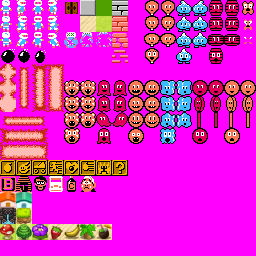
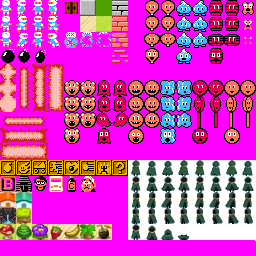
commit 10h16 28/11/2021

Changed region(s): [[0.5, 0.625, 1.0, 0.9375]]

diff --git a/src/entities/Bomb.java b/src/entities/Bomb.java
@@ -1,6 +1,7 @@
 package entities;
 
 import common.common_view;
+import sfx.SoundEffect;
 
 public class Bomb extends Entity {
         public int frameBomb = 0;
@@ -14,6 +15,8 @@ public class Bomb extends Entity {
         public int frameExplosion = 0;
         public int intervalExplosion = 3;
         public int indexAnimExplosion = 0;
+
+        public SoundEffect sound_explosion = new SoundEffect("src/sfx/bomb_explosion.wav");
 
         public Bomb(int xUnit, int yUnit) {
                 super(xUnit, yUnit);
@@ -95,18 +98,18 @@ public class Bomb extends Entity {
                                 animBomb(common_view.bombs.get(i));
 
                                 if (common_view.bombs.get(i).exploded) {
-
+                                        common_view.bombs.get(i).sound_explosion.play_sound();
                                         common_view.scene[_y][_x] = 'f';
-                                        if (common_view.scene[_y + 1][_x] != 35) {
+                                        if (common_view.scene[_y + 1][_x] != '#') {
                                                 common_view.scene[_y + 1][_x] = 's';
                                         }
-                                        if (common_view.scene[_y][_x - 1] != 35) {
+                                        if (common_view.scene[_y][_x - 1] != '#') {
                                                 common_view.scene[_y][_x - 1] = 'a';
                                         }
-                                        if (common_view.scene[_y][_x + 1] != 35) {
+                                        if (common_view.scene[_y][_x + 1] != '#') {
                                                 common_view.scene[_y][_x + 1] = 'd';
                                         }
-                                        if (common_view.scene[_y - 1][_x] != 35) {
+                                        if (common_view.scene[_y - 1][_x] != '#') {
                                                 common_view.scene[_y - 1][_x] = 'w';
                                         }
                                         common_view.bombs.get(i).frameExplosion++;
@@ -117,51 +120,38 @@ public class Bomb extends Entity {
                                                         common_view.bombs.get(i).indexAnimExplosion = 0;
 
                                                         common_view.scene[_y][_x] = ' ';
-                                                        if (common_view.scene[_y + 1][_x] != 35) {
-                                                                int random = (int) (Math.random() * 100 + 1);
-                                                                if (random % 5 == 0) {
-                                                                        common_view.scene[_y + 1][_x] = '1';
-                                                                        Item item = new Item(0, 0);
-                                                                        common_view.items.add(item);
-                                                                } else {
-                                                                        common_view.scene[_y + 1][_x] = ' ';
-                                                                }
+                                                        if (common_view.has_item[_y + 1][_x] == 1) {
+                                                                Item item = new Item(0, 0);
+                                                                common_view.items.add(item);
+                                                                common_view.scene[_y + 1][_x] = '1';
+                                                        } else if (common_view.has_item[_y + 1][_x] == 0) {
+                                                                common_view.scene[_y + 1][_x] = ' ';
                                                         }
-                                                        if (common_view.scene[_y][_x - 1] != 35) {
-                                                                int random = (int) (Math.random() * 100 + 1);
-                                                                if (random % 3 == 0) {
-                                                                        common_view.scene[_y][_x - 1] = '1';
-                                                                        Item item = new Item(0, 0);
-                                                                        common_view.items.add(item);
-                                                                } else {
-                                                                        common_view.scene[_y][_x - 1] = ' ';
-                                                                }
+                                                        if (common_view.has_item[_y - 1][_x] == 1) {
+                                                                Item item = new Item(0, 0);
+                                                                common_view.items.add(item);
+                                                                common_view.scene[_y - 1][_x] = '1';
+                                                        } else if (common_view.has_item[_y - 1][_x] == 0) {
+                                                                common_view.scene[_y - 1][_x] = ' ';
                                                         }
-                                                        if (common_view.scene[_y - 1][_x] != 35) {
-                                                                int random = (int) (Math.random() * 100 + 1);
-                                                                if (random % 3 == 0) {
-                                                                        common_view.scene[_y - 1][_x] = '1';
-                                                                        Item item = new Item(0, 0);
-                                                                        common_view.items.add(item);
-                                                                } else {
-                                                                        common_view.scene[_y - 1][_x] = ' ';
-                                                                }
+                                                        if (common_view.has_item[_y][_x + 1] == 1) {
+                                                                Item item = new Item(0, 0);
+                                                                common_view.items.add(item);
+                                                                common_view.scene[_y][_x + 1] = '1';
+                                                        } else if (common_view.has_item[_y][_x + 1] == 0) {
+                                                                common_view.scene[_y][_x + 1] = ' ';
                                                         }
-                                                        if (common_view.scene[_y][_x + 1] != 35) {
-                                                                int random = (int) (Math.random() * 100 + 1);
-                                                                if (random % 3 == 0) {
-                                                                        common_view.scene[_y][_x + 1] = '1';
-                                                                        Item item = new Item(0, 0);
-                                                                        common_view.items.add(item);
-                                                                } else {
-                                                                        common_view.scene[_y][_x + 1] = ' ';
-                                                                }
+                                                        if (common_view.has_item[_y][_x - 1] == 1) {
+                                                                Item item = new Item(0, 0);
+                                                                common_view.items.add(item);
+                                                                common_view.scene[_y][_x - 1] = '1';
+                                                        } else if (common_view.has_item[_y][_x - 1] == 0) {
+                                                                common_view.scene[_y][_x - 1] = ' ';
                                                         }
 
                                                         nguoicobinokhong(_x, _y);
 
                                                         common_view.bombs.remove(i);
-
                                                 }
                                         }
                                 }

diff --git a/src/entities/Bomber.java b/src/entities/Bomber.java
@@ -177,6 +177,7 @@ package entities;
 
 import common.*;
 import graphics.Sprite;
+import sfx.SoundEffect;
 
 import javax.sound.sampled.AudioSystem;
 import javax.sound.sampled.Clip;
@@ -222,7 +223,7 @@ public class Bomber extends Entity {
             if (framePlayer > intervalPlayer) {
                 framePlayer = 0;
                 indexAnimPlayer++;
-                if (indexAnimPlayer > 2) {
+                if (indexAnimPlayer > 7) {
                     indexAnimPlayer = 0;
                 }
             }
@@ -242,6 +243,7 @@ public class Bomber extends Entity {
             common_view.sprite.player = common_view.sprite.playerAnimDown[0];
         }
     }
+
     public boolean isFreeR(int x, int y, char[][] scene) {
         boolean a = false;
         int size = common_view.TILESIZE * common_view.SCALE;
@@ -253,7 +255,10 @@ public class Bomber extends Entity {
             } else if (x % size == 0 && y % size == 0) {
                 int x1 = x / size;
                 int y1 = y / size;
-                if (scene[y1][x1 + 1] == ' ' || scene[y1][x1 + 1] == '9') {
+                if (scene[y1][x1 + 1] == ' ' || scene[y1][x1 + 1] == '9' || scene[y1][x1 + 1] == '1') {
+                    if (scene[y1][x1 + 1] == '1') {
+                        scene[y1][x1 + 1] = ' ';
+                    }
                     a = true;
                 } else {
                     a = false;
@@ -280,7 +285,10 @@ public class Bomber extends Entity {
             } else if (x % size == 0 && y % size == 0) {
                 int x1 = x / size;
                 int y1 = y / size;
-                if (scene[y1][x1-1]==32 || scene[y1][x1-1]==57) {
+                if (scene[y1][x1-1] == ' ' || scene[y1][x1-1] == '9' || scene[y1][x1-1] == '1') {
+                    if (scene[y1][x1-1] == '1') {
+                        scene[y1][x1-1] = ' ';
+                    }
                     a = true;
                 } else {
                     a = false;
@@ -307,7 +315,10 @@ public class Bomber extends Entity {
             } else if (x % size == 0 && y % size == 0) {
                 int x1 = x / size;
                 int y1 = y / size;
-                if (scene[y1-1][x1]==32 || scene[y1-1][x1]==57) {
+                if (scene[y1-1][x1] == ' ' || scene[y1-1][x1] == '9' || scene[y1-1][x1] == '1') {
+                    if (scene[y1-1][x1] == '1') {
+                        scene[y1-1][x1] = ' ';
+                    }
                     a = true;
                 } else {
                     a = false;
@@ -334,7 +345,10 @@ public class Bomber extends Entity {
             } else if (x % size == 0 && y % size == 0) {
                 int x1 = x / size;
                 int y1 = y / size;
-                if (scene[y1+1][x1]==32 || scene[y1+1][x1]==57) {
+                if (scene[y1+1][x1] == ' ' || scene[y1+1][x1] == '9' || scene[y1+1][x1] == '1') {
+                    if (scene[y1+1][x1] == '1') {
+                        scene[y1+1][x1] = ' ';
+                    }
                     a = true;
                 } else {
                     a = false;

diff --git a/src/graphics/Sprite.java b/src/graphics/Sprite.java
@@ -48,10 +48,10 @@ public class Sprite {
             common_view.view_game_over = ImageIO.read(getClass().getResource("/lose.png"));
             spriteSheet = ImageIO.read(getClass().getResource("/classic1.png"));
 
-            playerAnimUp = new BufferedImage[3];
-            playerAnimDown = new BufferedImage[3];
-            playerAnimRight = new BufferedImage[3];
-            playerAnimLeft = new BufferedImage[3];
+            playerAnimUp = new BufferedImage[8];
+            playerAnimDown = new BufferedImage[8];
+            playerAnimRight = new BufferedImage[8];
+            playerAnimLeft = new BufferedImage[8];
             bombAnim = new BufferedImage[3];
 
             fontExplosion = new BufferedImage[3];
@@ -67,12 +67,15 @@ public class Sprite {
                 item1[i + 3] = spriteSheet.getSubimage(10 * 16, i * 16, 16, 16);
             }
 
+            for (int i = 0; i < 8; i++) {
+                playerAnimLeft[i] = spriteSheet.getSubimage((i + 8) * 16, 13 * 16, 16, 16);
+                playerAnimRight[i] = spriteSheet.getSubimage((i + 8) * 16, 12 * 16, 16, 16);
+                playerAnimUp[i] = spriteSheet.getSubimage((i + 8) * 16, 10 * 16, 16, 16);
+                playerAnimDown[i] = spriteSheet.getSubimage((i + 8) * 16, 11 * 16, 16, 16);
+            }
+
 
             for (int i = 0; i < 3; i++) {
-                playerAnimLeft[i] = spriteSheet.getSubimage(3 * 16, i * 16, 16, 16);
-                playerAnimRight[i] = spriteSheet.getSubimage(1 * 16, i * 16, 16, 16);
-                playerAnimUp[i] = spriteSheet.getSubimage(0, i * 16, 16, 16);
-                playerAnimDown[i] = spriteSheet.getSubimage(2 * 16, i * 16, 16, 16);
                 bombAnim[i] = spriteSheet.getSubimage(i * 16, 3 * 16, 16, 16);
                 fontExplosion[i] = spriteSheet.getSubimage(0, (i + 4) * 16, 16, 16);
                 upExplosion[i] = spriteSheet.getSubimage((i + 1) * 16, 4 * 16, 16, 16);
@@ -93,7 +96,7 @@ public class Sprite {
             banana = spriteSheet.getSubimage(4 * 16, 14 * 16, 16, 16);
             soil = spriteSheet.getSubimage(5 * 16, 1 * 16, 16, 16);
             mound = spriteSheet.getSubimage(1 * 16, 13 * 16, 16, 16);
-            player = spriteSheet.getSubimage(2 * 16, 0 * 16, 16, 16);
+            player = spriteSheet.getSubimage(8 * 16, 11 * 16, 16, 16);
         } catch (IOException e) {
             e.printStackTrace();
         }

diff --git a/src/sfx/SoundEffect.java b/src/sfx/SoundEffect.java
@@ -1,2 +1,39 @@
-package sfx;public class SoundEffect {
+package sfx;
+
+import java.io.File;
+import java.io.IOException;
+
+import javafx.scene.media.Media;
+import javafx.scene.media.MediaPlayer;
+
+import javax.sound.sampled.AudioInputStream;
+import javax.sound.sampled.AudioSystem;
+import javax.sound.sampled.Clip;
+import javax.sound.sampled.UnsupportedAudioFileException;
+
+public class SoundEffect {
+    private File file;
+    private Clip clip;
+    private boolean is_play_music;
+
+    public SoundEffect(String path) {
+        is_play_music = false;
+        file = new File(path);
+        AudioInputStream audioInputStream = null;
+        try {
+            audioInputStream = AudioSystem.getAudioInputStream(file);
+            this.clip = AudioSystem.getClip();
+            this.clip.open(audioInputStream);
+        } catch (Exception e) {
+            e.printStackTrace();
+        }
+    }
+
+    public void play_sound() {
+        if (!is_play_music) {
+            this.clip.start();
+            is_play_music = true;
+        }
+    }
+
 }

diff --git a/src/common/common_view.java b/src/common/common_view.java
@@ -33,6 +33,7 @@ public class common_view {
     public static BufferedImage view_game_over;
 
     public static char[][] scene = new char[16][22];
+    public static int[][] has_item = new int[16][22];
 
 
     // public static boolean right = false, left = false, up = false, down = false;
